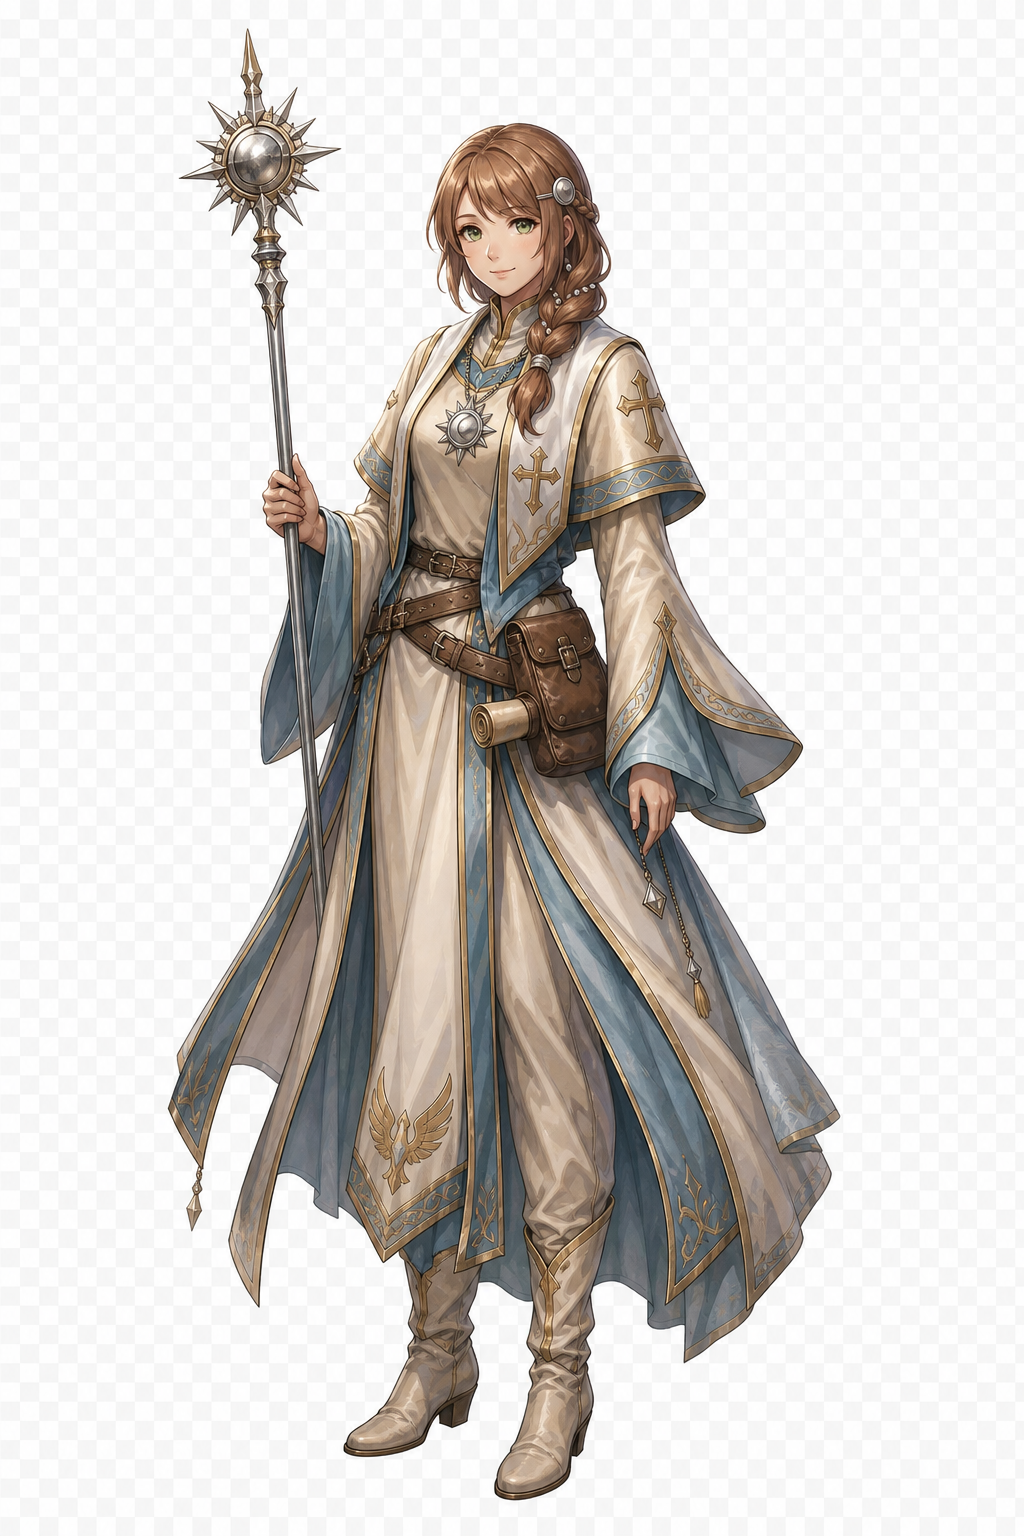
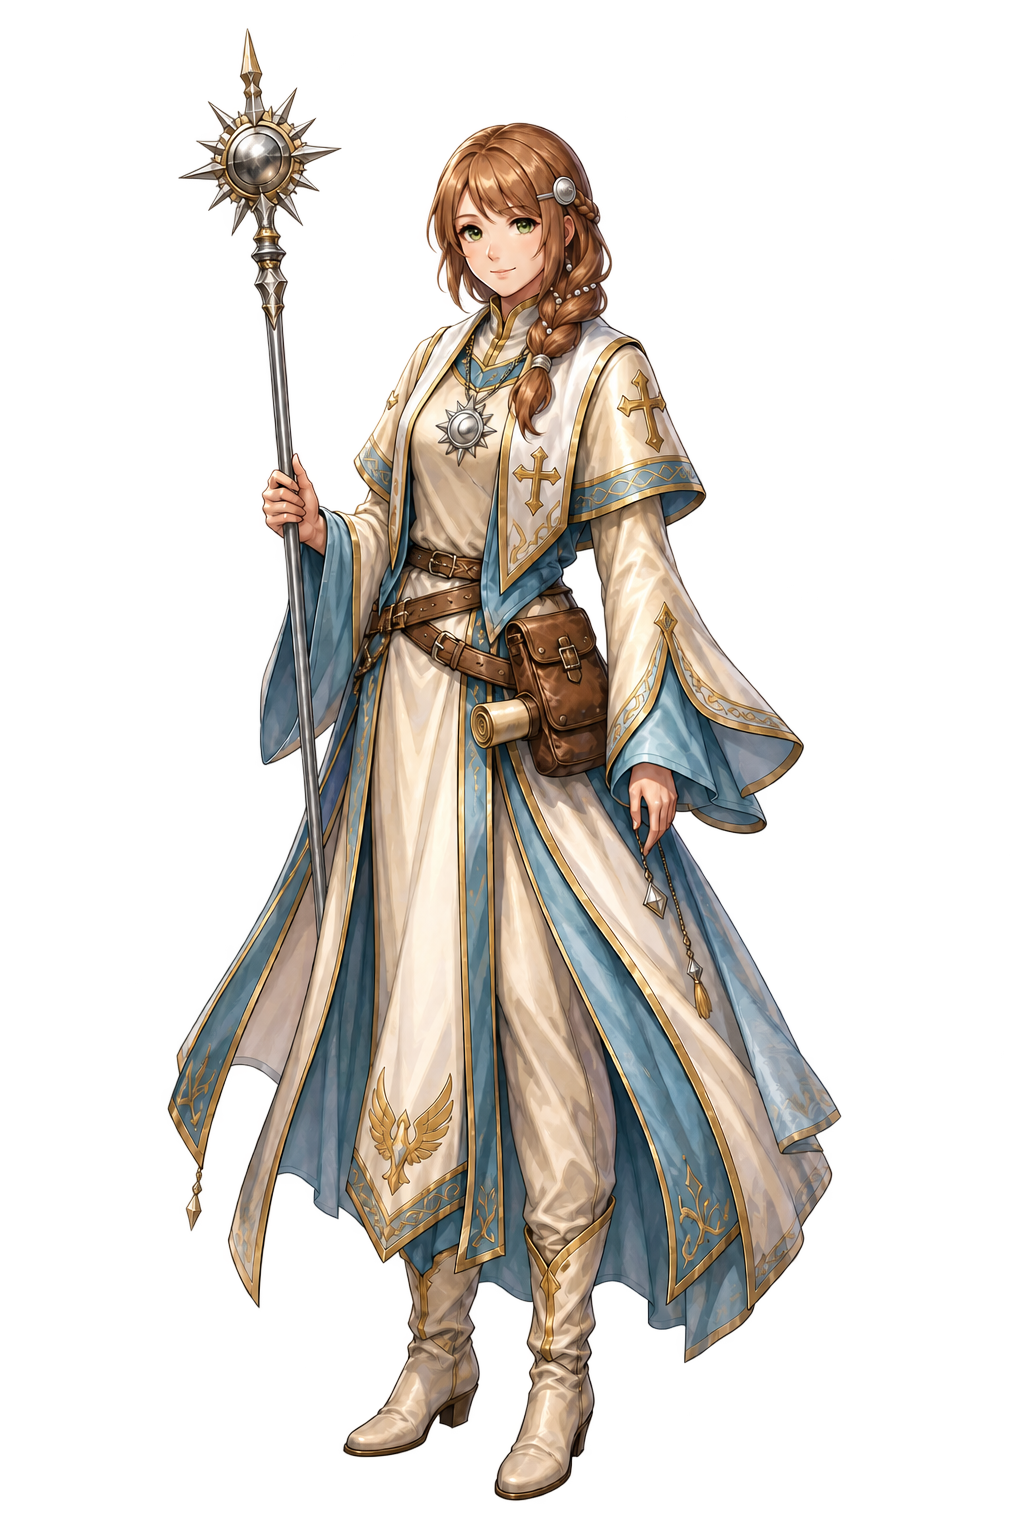
feat: refresh player portraits and Ian variant

Changed region(s): [[0.1562, 0.0312, 0.8125, 1.0]]

diff --git a/client/app.js b/client/app.js
@@ -8,7 +8,7 @@ const state = {
   choiceStack: [],
   choicesRevealed: false,
   selectedCharacterId: "hero",
-  selectedCharacterImage: "/static/images/char_male_hero.png",
+  selectedCharacterImage: "/static/images/char_male_hero_v2.png",
   selectedCharacter: null,
   characters: [],
   expandedCharacterId: "",

diff --git a/host/expand_dragon_scenario.py b/host/expand_dragon_scenario.py
@@ -70,6 +70,13 @@ NPC_IMAGES = {
     "fire_bat_dragon": "/static/images/companion_fire_bat_dragon.png",
 }
 
+CHARACTER_IMAGES = {
+    "hero": "/static/images/char_male_hero_v2.png",
+    "cleric": "/static/images/char_cleric_v2.png",
+    "mage": "/static/images/char_mage_v2.png",
+    "thief": "/static/images/char_thief_v2.png",
+}
+
 ENEMY_IMAGES = {
     "slime": "/static/images/enemy_slime.png",
     "ignis": "/static/images/enemy_ignis.png",
@@ -110,13 +117,16 @@ LOCATION_PORTRAITS = {
     "xanxus_battle": "/static/images/npc_xanxus.png",
     "xanxus_ultimatum": "/static/images/npc_xanxus.png",
     "warlock_rescue_battle": "/static/images/npc_warlock.png",
-    "ian_ice_katana_aftermath": "/static/images/npc_ian.png",
+    "ian_ice_katana_aftermath": "/static/images/npc_ian_serious.png",
+}
+
+LOCATION_NPC_PORTRAIT_OVERRIDES = {
+    "ian_ice_katana_aftermath": {"ian": "/static/images/npc_ian_serious.png"},
 }
 
 ACTION_PORTRAITS = {
     "ask_king_info": "/static/images/npc_king.png",
     "ask_general_advice": "/static/images/npc_general.png",
-    "check_supplies": "/static/images/char_male_hero.png",
     "buy_equipment": "/static/images/npc_blacksmith.png",
     "buy_adamantite_armor": "/static/images/npc_blacksmith.png",
     "buy_ice_amulet": "/static/images/npc_blacksmith.png",
@@ -156,9 +166,9 @@ ACTION_PORTRAITS = {
     "accept_xanxus_fire_seed": "/static/images/npc_xanxus.png",
     "refuse_xanxus_with_rescue": "/static/images/npc_xanxus.png",
     "refuse_xanxus_without_rescue": "/static/images/npc_xanxus.png",
-    "accept_ian_request": "/static/images/npc_ian.png",
-    "refuse_ian_after_xanxus": "/static/images/npc_ian.png",
-    "refuse_ian_before_xanxus": "/static/images/npc_ian.png",
+    "accept_ian_request": "/static/images/npc_ian_serious.png",
+    "refuse_ian_after_xanxus": "/static/images/npc_ian_serious.png",
+    "refuse_ian_before_xanxus": "/static/images/npc_ian_serious.png",
 }
 
 for _merchant_action in (
@@ -256,7 +266,11 @@ def apply_visual_assets(pack: dict[str, Any]) -> None:
         if not isinstance(character, dict):
             continue
         character_id = str(character.get("id") or "")
-        if character_id == "warlock":
+        if character_id in CHARACTER_IMAGES:
+            character["image"] = CHARACTER_IMAGES[character_id]
+            if character_id == "hero":
+                character["image_female"] = "/static/images/char_female_hero_v2.png"
+        elif character_id == "warlock":
             character["image"] = "/static/images/npc_warlock.png"
     for place in pack.get("locations", []):
         if not isinstance(place, dict):
@@ -266,6 +280,8 @@ def apply_visual_assets(pack: dict[str, Any]) -> None:
             place["background_image"] = BACKGROUND_IMAGES[location_id]
         if location_id in LOCATION_PORTRAITS:
             place["portrait_image"] = LOCATION_PORTRAITS[location_id]
+        if location_id in LOCATION_NPC_PORTRAIT_OVERRIDES:
+            place["npc_portrait_overrides"] = deepcopy(LOCATION_NPC_PORTRAIT_OVERRIDES[location_id])
         _apply_action_portraits(place.get("actions"))
     for scene in pack.get("scenes", []):
         if isinstance(scene, dict):
@@ -277,7 +293,9 @@ def _apply_action_portraits(actions: Any) -> None:
         if not isinstance(entry, dict):
             continue
         action_id = str(entry.get("id") or entry.get("action_id") or "")
-        if action_id in ACTION_PORTRAITS:
+        if action_id == "check_supplies":
+            entry.pop("portrait_image", None)
+        elif action_id in ACTION_PORTRAITS:
             entry["portrait_image"] = ACTION_PORTRAITS[action_id]
         _apply_action_portraits(entry.get("children"))
 

diff --git a/tests/test_dragon_story.py b/tests/test_dragon_story.py
@@ -438,12 +438,61 @@ class DragonStoryTests(unittest.TestCase):
             ["ian", "robin"],
         )
         self.assertFalse(arrival["dialogue_active"])
-        self.assertEqual(arrival["player_portrait_image"], "/static/images/char_mage.png")
+        self.assertEqual(arrival["player_portrait_image"], "/static/images/char_mage_v2.png")
 
         session["last_action_result"] = {"action_id": "ask_robin_rumor", "outcome": "success"}
         dialogue = state.public_session(session)
         self.assertTrue(dialogue["dialogue_active"])
         self.assertEqual(dialogue["dialogue_portrait_image"], "/static/images/npc_robin.png")
+
+    def test_selectable_characters_use_refreshed_rgba_portraits(self):
+        pack = self.load_raw()
+        expected = {
+            "hero": "/static/images/char_male_hero_v2.png",
+            "cleric": "/static/images/char_cleric_v2.png",
+            "mage": "/static/images/char_mage_v2.png",
+            "thief": "/static/images/char_thief_v2.png",
+        }
+        characters = records(pack, "characters")
+        for character_id, image in expected.items():
+            self.assertEqual(characters[character_id]["image"], image)
+            png = Path("client") / image.removeprefix("/static/")
+            self.assertEqual(png.read_bytes()[25], 6, f"{png} must be RGBA")
+        self.assertEqual(characters["hero"]["image_female"], "/static/images/char_female_hero_v2.png")
+        for image in (
+            "/static/images/char_female_hero_v2.png",
+            "/static/images/npc_ian_serious.png",
+        ):
+            png = Path("client") / image.removeprefix("/static/")
+            self.assertEqual(png.read_bytes()[25], 6, f"{png} must be RGBA")
+
+    def test_old_save_portrait_paths_migrate_to_refreshed_art(self):
+        session = self.create_runtime_session("thief")
+        session["character"]["character_image"] = "/static/images/char_thief.png"
+        state.save_session(session)
+
+        loaded = state.load_session(session["id"])
+
+        self.assertEqual(loaded["character"]["character_image"], "/static/images/char_thief_v2.png")
+
+    def test_ian_uses_serious_variant_only_at_ice_katana_aftermath(self):
+        session = self.create_runtime_session()
+        state.commit_world_position(session, location_id="inn")
+        inn = state.public_session(session)
+        self.assertEqual(inn["location_npc_portraits"][0]["image"], "/static/images/npc_ian.png")
+
+        state.ensure_world_state(session).update({
+            "scene_id": "village",
+            "location_id": "ian_ice_katana_aftermath",
+        })
+        aftermath = state.public_session(session)
+        self.assertEqual(
+            aftermath["location_npc_portraits"][0]["image"],
+            "/static/images/npc_ian_serious.png",
+        )
+        session["last_action_result"] = {"action_id": "accept_ian_request", "outcome": "neutral"}
+        dialogue = state.public_session(session)
+        self.assertEqual(dialogue["dialogue_portrait_image"], "/static/images/npc_ian_serious.png")
 
     def test_explicit_retry_can_start_combat_after_a_defeat_lock(self):
         session = self.create_runtime_session()

diff --git a/host/state.py b/host/state.py
@@ -75,7 +75,15 @@ DEFAULT_CHARACTER: dict[str, Any] = {
     ],
     "equipment": ["鉄の剣", "革の鎧"],
     "background_image": "/static/images/bg_dragon_rpg.png",
-    "character_image": "/static/images/char_male_hero.png",
+    "character_image": "/static/images/char_male_hero_v2.png",
+}
+
+CHARACTER_PORTRAIT_ALIASES = {
+    "/static/images/char_male_hero.png": "/static/images/char_male_hero_v2.png",
+    "/static/images/char_female_hero.png": "/static/images/char_female_hero_v2.png",
+    "/static/images/char_cleric.png": "/static/images/char_cleric_v2.png",
+    "/static/images/char_mage.png": "/static/images/char_mage_v2.png",
+    "/static/images/char_thief.png": "/static/images/char_thief_v2.png",
 }
 
 
@@ -367,6 +375,9 @@ def _location_npc_portraits(
             if isinstance(record, dict) and str(record.get("id") or ""):
                 catalogs.setdefault(str(record["id"]), record)
     portraits: list[dict[str, str]] = []
+    portrait_overrides = location.get("npc_portrait_overrides")
+    if not isinstance(portrait_overrides, dict):
+        portrait_overrides = {}
     for npc_id in location.get("npc_ids", []):
         record = catalogs.get(str(npc_id))
         if not isinstance(record, dict) or not record.get("image"):
@@ -374,7 +385,7 @@ def _location_npc_portraits(
         portraits.append({
             "id": str(record.get("id") or npc_id),
             "name": str(record.get("name") or npc_id),
-            "image": str(record["image"]),
+            "image": str(portrait_overrides.get(str(npc_id)) or record["image"]),
         })
     if not portraits and location.get("portrait_image"):
         portraits.append({
@@ -2173,6 +2184,9 @@ def _trim_context_to_budget(context_json: str, max_chars: int) -> str:
 
 
 def _normalize_character(character: dict[str, Any]) -> None:
+    portrait = str(character.get("character_image") or "")
+    if portrait in CHARACTER_PORTRAIT_ALIASES:
+        character["character_image"] = CHARACTER_PORTRAIT_ALIASES[portrait]
     for stat in ("hp", "mp", "sp"):
         max_key = f"max_{stat}"
         character[max_key] = int(character.get(max_key, character.get(stat, 0)))

diff --git a/tests/test_state.py b/tests/test_state.py
@@ -892,7 +892,7 @@ class StateTests(unittest.TestCase):
 
         self.assertEqual(character["character_id"], "mage")
         self.assertEqual(character["name"], "リリィ")
-        self.assertEqual(character["character_image"], "/static/images/char_mage.png")
+        self.assertEqual(character["character_image"], "/static/images/char_mage_v2.png")
         self.assertEqual(character["attributes"]["int"], 16)
         self.assertEqual(character["inventory"][0]["name"], "魔導書")
 
